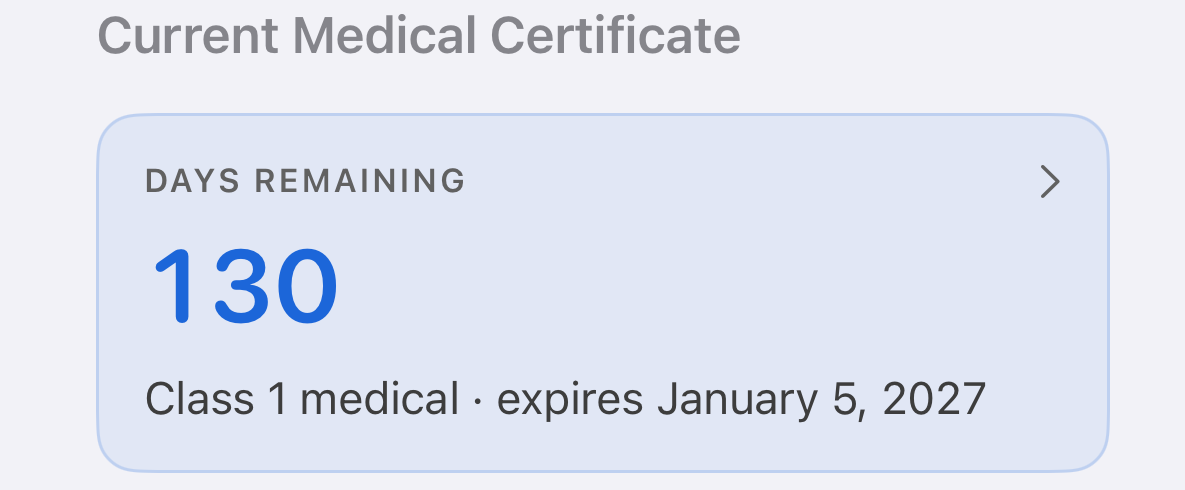
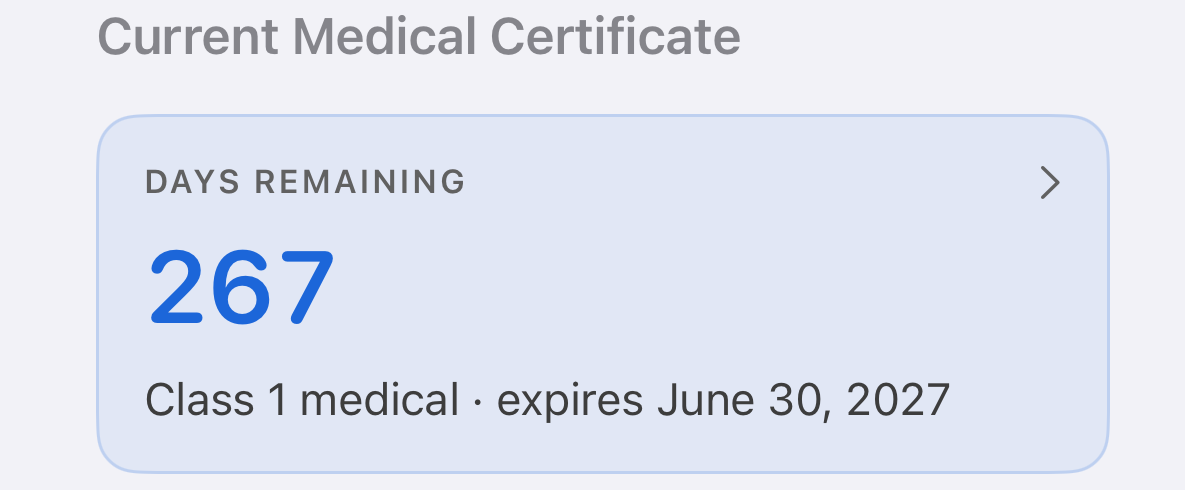
Duration page countdown image: 267 days, expires June 30, 2027 (was 130 / January 5, 2027, a mid-month expiry on the page that explains the end-of-month rule)
Same 1:1 crop box (0,880,1185,1370) from the 10/6 iPhone Home capture; cache-buster v=20261009. Presentation only, no wording change.

diff --git a/faa-medical-duration.html b/faa-medical-duration.html
@@ -465,7 +465,7 @@
     <div class="card">
       <p style="margin-top:0"><strong>Pilot Medical Guardian</strong> calculates your certificate's expiration from these actual <strong>14 CFR 61.23</strong> rules (your class, your age at the exam, the end-of-month convention) and counts down the days to it. It's a <strong>privacy-first app for iPhone, iPad, and Mac</strong>: your records stay on your own device and iCloud, and I can never see them.</p>
       <figure class="shot">
-        <img src="/screenshots/renewal-countdown.webp?v=20260828" width="1185" height="490" loading="lazy" decoding="async" alt="Pilot Medical Guardian home screen showing the days remaining on a Class 1 medical certificate and its expiration date">
+        <img src="/screenshots/renewal-countdown.webp?v=20261009" width="1185" height="490" loading="lazy" decoding="async" alt="Pilot Medical Guardian home screen showing the days remaining on a Class 1 medical certificate and its expiration date">
         <figcaption>The countdown on the app's home screen. Sample data.</figcaption>
       </figure>
       <p style="margin-bottom:0">It's an information and record-keeping tool. It shows you the rules and the dates; it doesn't make any determination for you. You stay in control.</p>
